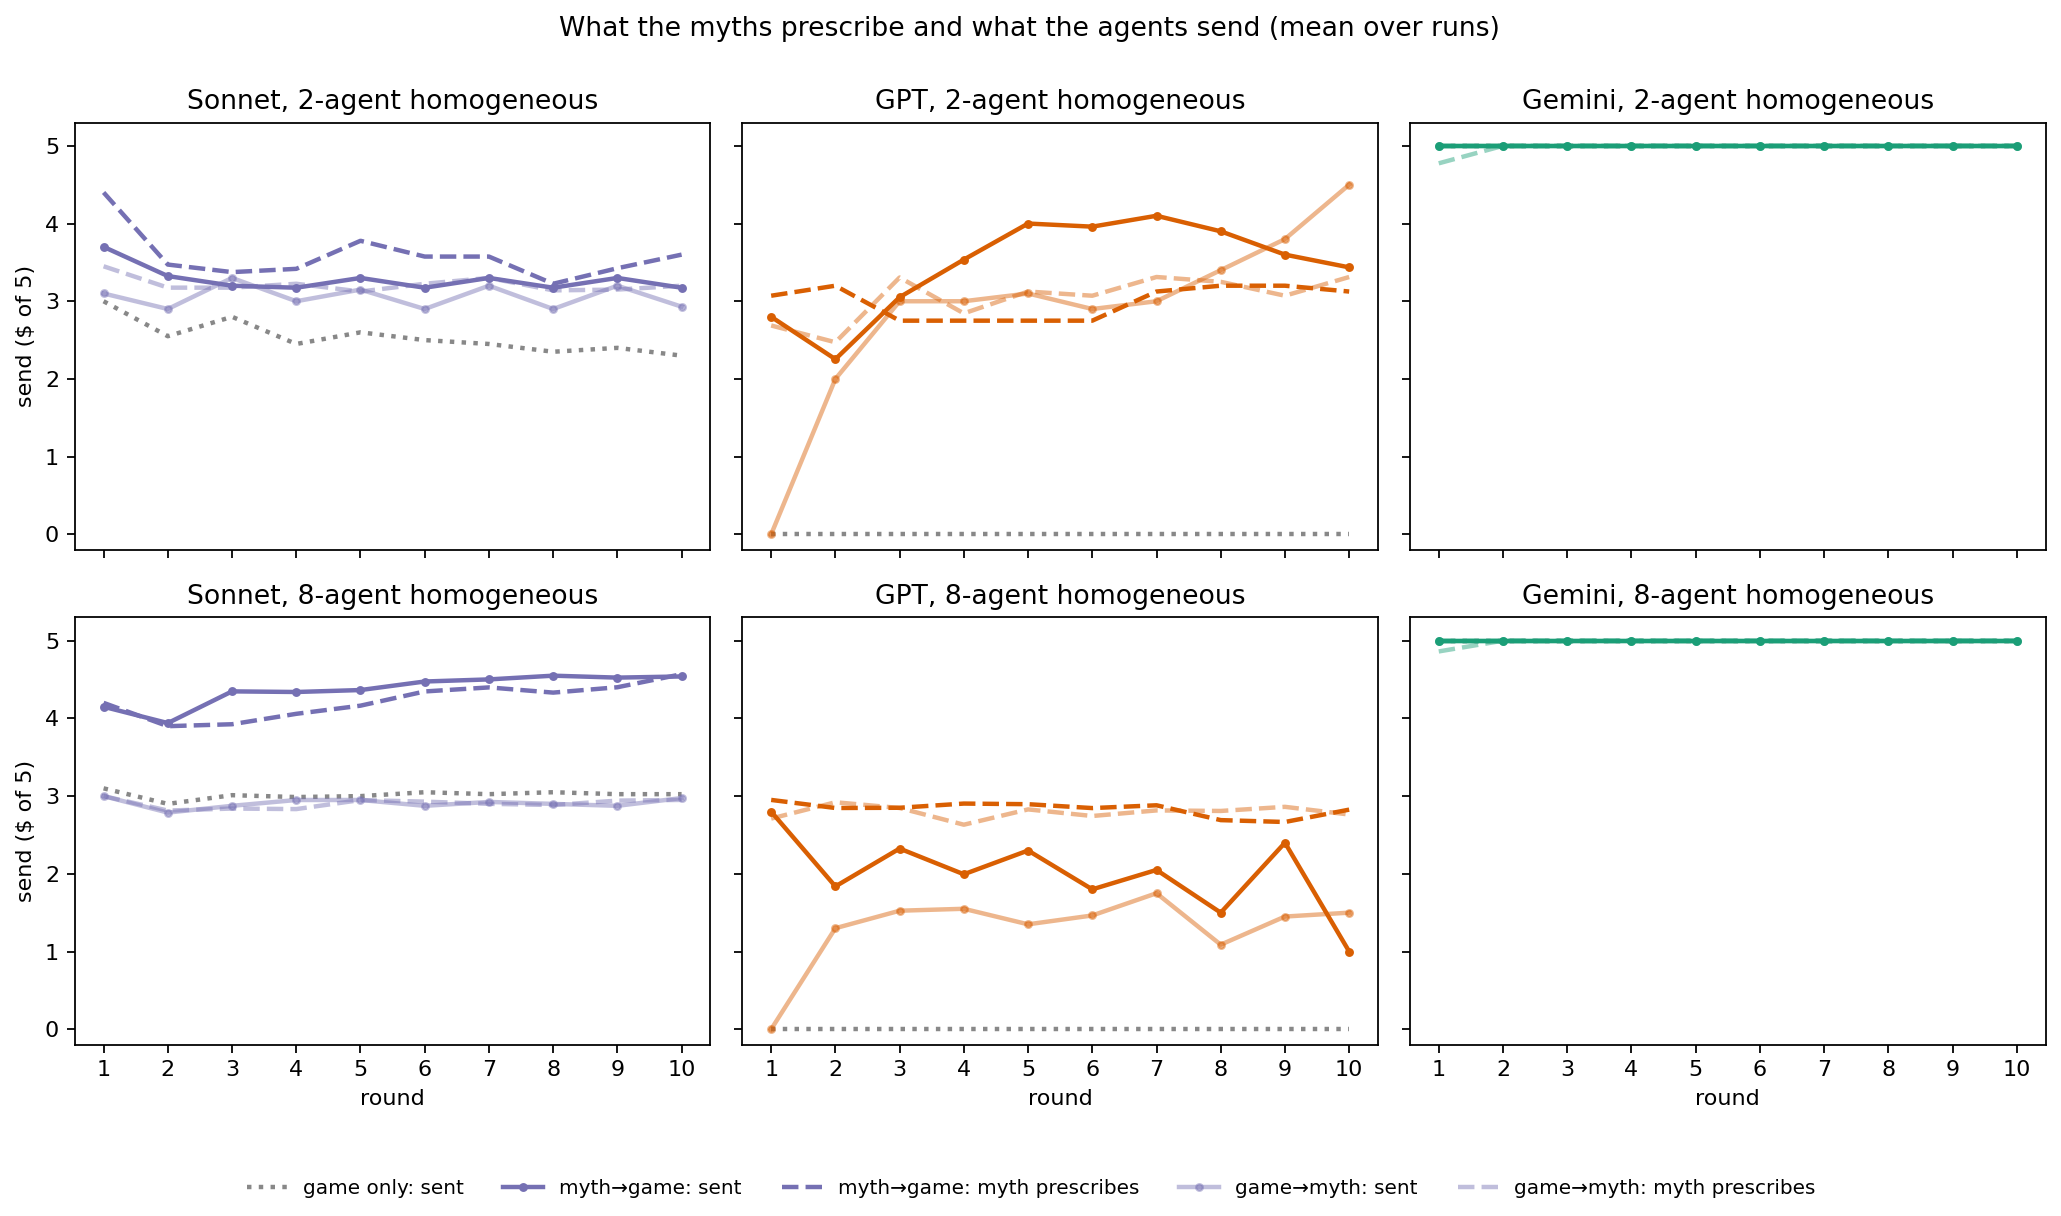
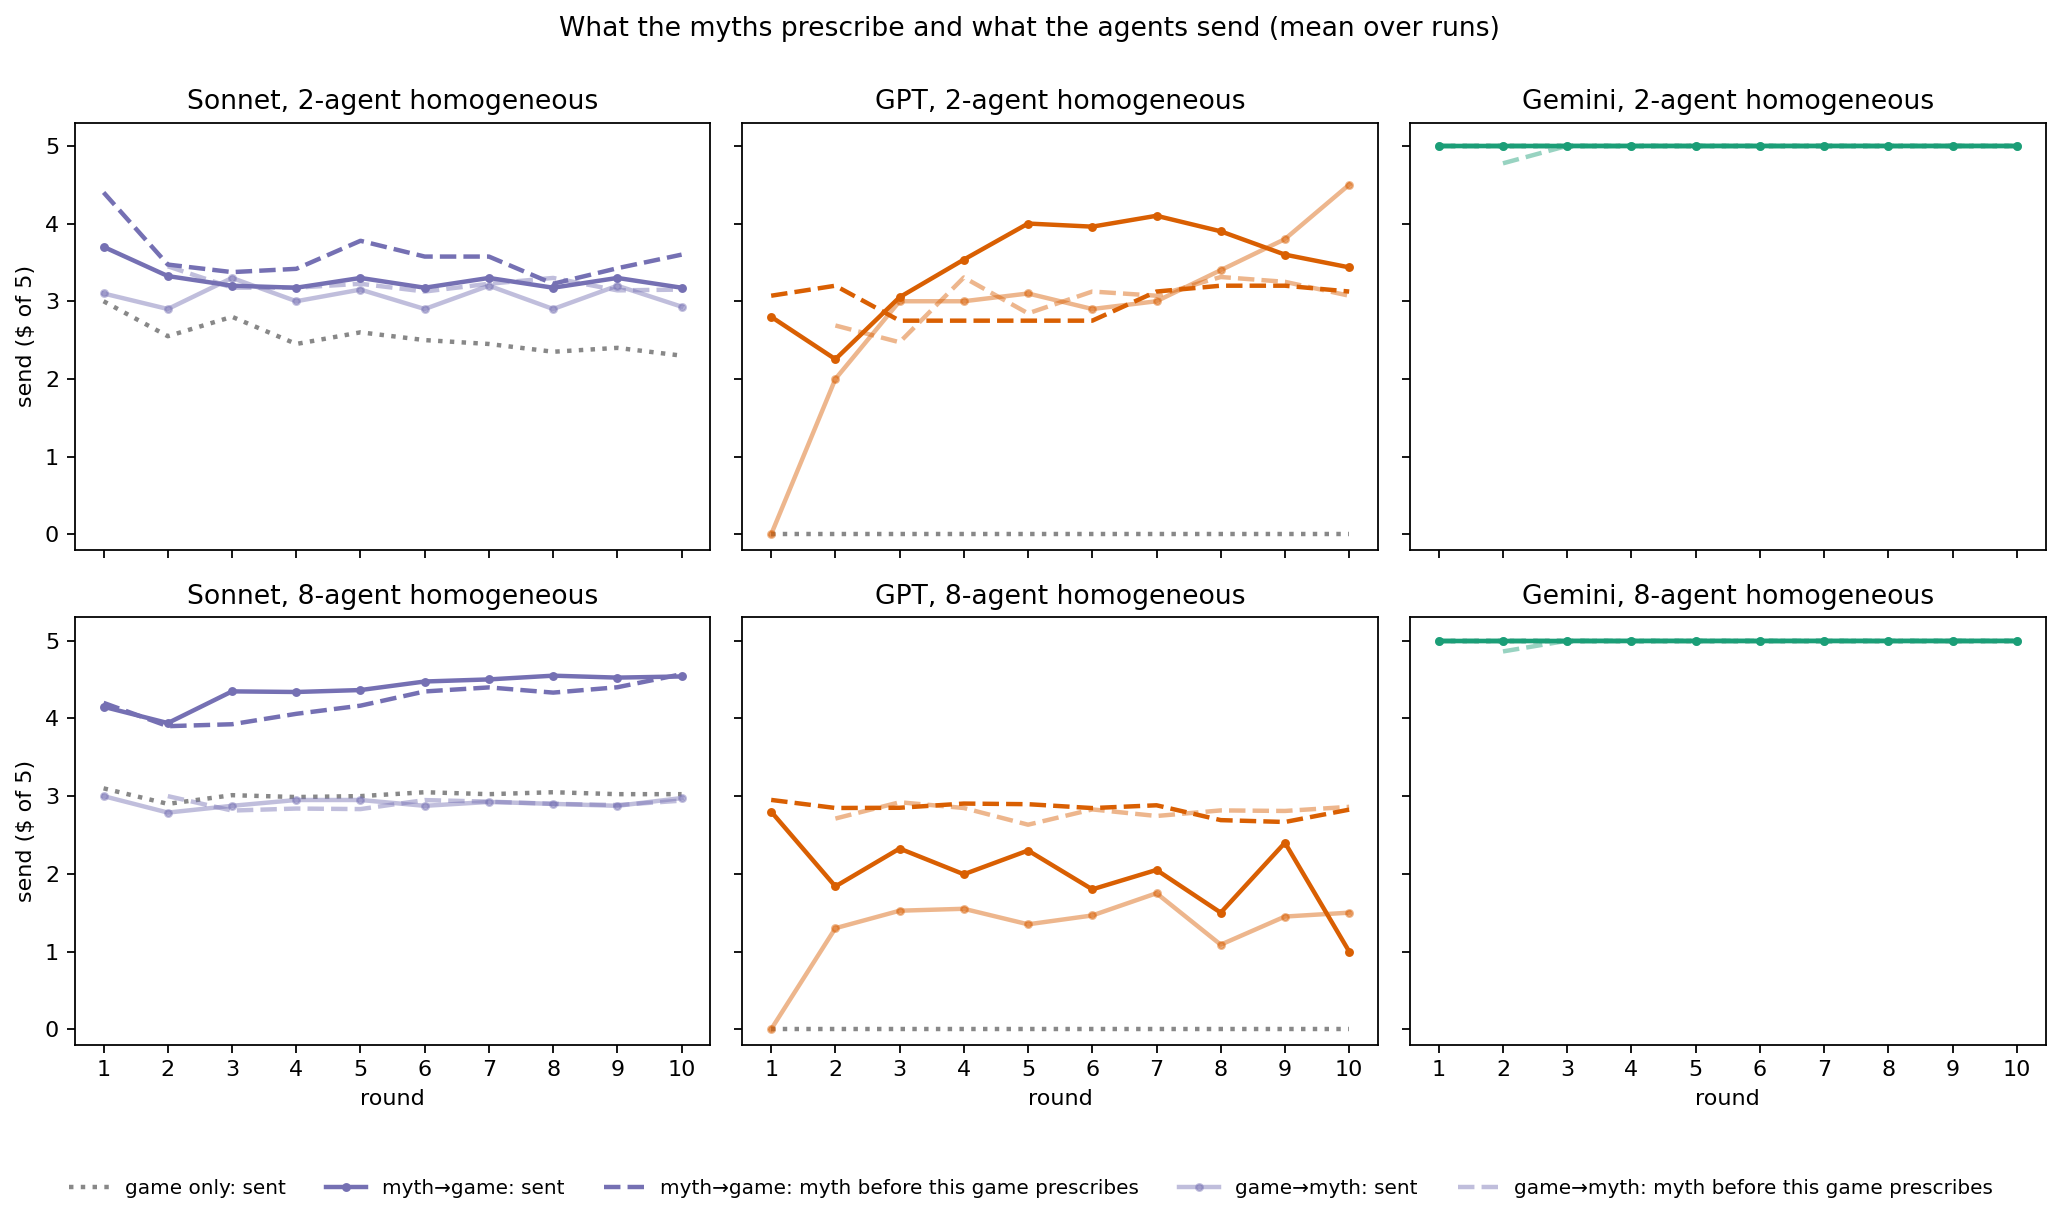
Rescope myth-rule claims after review checks
Align game->myth sends with the myth written before them, lead T1 with the
within-family coefficients, add the within-donor-type transplant check and the
letdown-rule null, and mark the letdown-field trends tentative (kappa 0.29-0.42).

diff --git a/analyses/myth_rules_analysis.py b/analyses/myth_rules_analysis.py
@@ -130,7 +130,10 @@ def prescribed_vs_actual(r: pd.DataFrame, sends: pd.DataFrame) -> pd.DataFrame:
     per_run = h.groupby(["size", "family", "task_order", "path", "round"])["sent"].mean().reset_index()
     actual = per_run.groupby(["size", "family", "task_order", "round"])["sent"].agg(["mean", "std"])
     actual.columns = ["sent_mean", "sent_sd"]
-    rh = r[~r["mixed"]]
+    rh = r[~r["mixed"]].copy()
+    # line each send up with the myth written before it: in game->myth that is the previous round's myth
+    rh["round"] = np.where(rh["task_order"] == "game_myth", rh["round"] + 1, rh["round"])
+    rh = rh[rh["round"] <= 10]
     presc = rh.groupby(["size", "family", "task_order", "round"]).agg(
         prescribed_mean=("prescribed", "mean"), prescribed_specified=("prescribed", lambda s: s.notna().mean()))
     return actual.join(presc, how="left").reset_index().round(3)
@@ -152,7 +155,7 @@ def plot_prescribed_vs_actual(t: pd.DataFrame) -> None:
                 ax.plot(o["round"], o["sent_mean"], color=c, alpha=alpha, lw=2, marker="o", ms=3,
                         label=f"{name}: sent")
                 ax.plot(o["round"], o["prescribed_mean"], color=c, alpha=alpha, lw=2, ls="--",
-                        label=f"{name}: myth prescribes")
+                        label=f"{name}: myth before this game prescribes")
             ax.set_ylim(-0.2, 5.3)
             ax.set_title(f"{fam}, {size}-agent homogeneous")
             if j == 0:

diff --git a/analyses/linguistic_provenance.py b/analyses/linguistic_provenance.py
@@ -73,7 +73,8 @@ def main() -> None:
         allowed.update({k: why for k in ("protocol.simulation.seed_myth", "protocol.simulation.seed_reinject",
                                          "protocol.simulation.seed_user_prompt", "replicate.identity")})
         apparatus = ("Transplant pool uses the historical slide-678 apparatus (uninformed U(-5,0) noise, "
-                     "myth-only memory); it is never pooled with September runs, only compared within itself")
+                     "myth-only memory); it is never pooled with September runs, only compared within itself. "
+                     "Declared for the folder as a whole; the September pools do not differ in these fields")
         allowed.update({k: apparatus for k in ("protocol.game.defector_prompt_template",
                                                "protocol.game.noise_config.inform_agents",
                                                "protocol.game.noise_config.range",

diff --git a/docs/figures/myth_rules_20260928/README.md b/docs/figures/myth_rules_20260928/README.md
@@ -6,11 +6,21 @@ myths are does not predict how they play
 a myth raises cooperation? This folder extracts the concrete play rules each
 myth endorses and checks whether agents follow them.
 
-**Answer.** Each myth works as a written instruction to its author. The
-prescribed send amount is what matters. An agent sends close to what its own
-myth prescribes, and a transplanted myth moves its hosts toward the amount it
-prescribes. Each model family writes its own rulebook, and the rulebooks barely
-change over ten rounds.
+**Answer.** A myth works as a written instruction to its author, and it acts
+mainly on how generously play opens.
+
+- **The stated send amount sets the opening.** Before any play, agents send
+  more when their own myth names a bigger amount.
+- **The transplant confirms the direction.** A myth the experimenter injected
+  moves Sonnet hosts toward the amount it names, including within one donor
+  type in the 8-agent rerun.
+- **For GPT, what matters is writing a cooperative rule at all.** Its
+  game-only zero-lock breaks whatever amount its myth names.
+- **No rule we extracted explains why myth runs stop sliding to $0.** Neither
+  the letdown clause nor the send amount accounts for it.
+- **The rulebooks differ by family.** Send amounts stay fixed within each
+  family over ten rounds. Return rules converge on "half", and a
+  "consistency" theme grows.
 
 ## Why the myth can act as an instruction
 
@@ -70,14 +80,16 @@ Homogeneous runs, round 1 → round 10, both myth orders
   - Send "all": 86–100% of myths at round 1, 100% by round 10.
   - Return "half": rises to 96–100%. Early myths still said "more than half"
     (24–36%).
-  - "Keep trusting after a shortfall": 22–64% at round 1, 92–100% by round 10.
-    Gemini's myths increasingly tell the reader to trust through the noise.
+  - "Keep trusting after a shortfall": 22–64% at round 1, 92–100% by round 10
+    under GLM. *Tentative:* the second judge codes far fewer Gemini myths this
+    way (36% vs 76% on the same sample).
 - **GPT: send a measured amount, return about half.**
   - Send "moderate": 62–64% at round 1, 76–88% at round 10. "Not a flood",
     "within one's means".
   - Send "all": falls from 8–14% to 6%.
-  - "After being let down": GPT is the only family whose myths shift toward
-    "reduce" (6% → 34% in game→myth).
+  - "After being let down": under GLM, GPT is the only family whose myths
+    shift toward "reduce" (6% → 34% in game→myth). *Tentative:* the letdown
+    field has κ 0.29–0.42 per family.
 - **Sonnet: depends on when the myth is written.**
   - Myth written before play (myth→game): 60% "send all" at round 1. Its
     return rule leans generous: 58% "more than half".
@@ -99,20 +111,24 @@ Homogeneous runs, round 1 → round 10, both myth orders
   a few points of homogeneous runs for Sonnet and Gemini. GPT in mixed runs
   says "send all" more often (22% vs 6%).
 
-## 2. Agents send what their myths prescribe (`prescribed_vs_actual_send.png`)
+## 2. Prescriptions and sends move together (`prescribed_vs_actual_send.png`)
 
-Mean over runs, homogeneous, $ out of 5:
+Each send is lined up with the myth written before it. In game→myth that is
+the previous round's myth, so game→myth has no prescription at round 1. Only
+the myth→game round-1 column is free of past play (Section 3 tests it). Mean
+over runs, homogeneous, $ out of 5:
 
 | Setting | Game only: sent | Myth→game: prescribed | Myth→game: sent | Game→myth: prescribed | Game→myth: sent |
 |---|---:|---:|---:|---:|---:|
-| 8 Sonnet, round 1 | 3.10 (±0.14) | 4.20 | 4.15 (±0.42) | 3.00 | 3.00 (±0.00) |
-| 8 Sonnet, round 10 | 3.03 (±0.06) | 4.57 | 4.54 (±0.44) | 2.95 | 2.98 (±0.06) |
-| 8 GPT, round 2 | 0.00 (±0.00) | 2.85 | 1.84 (±0.55) | 2.92 | 1.30 (±0.57) |
-| GPT dyad, round 2 | 0.00 (±0.00) | 3.20 | 2.25 (±1.84) | 2.47 | 2.00 (±1.41) |
+| 8 Sonnet, round 1 | 3.10 (±0.14) | 4.20 | 4.15 (±0.42) | – | 3.00 (±0.00) |
+| 8 Sonnet, round 10 | 3.03 (±0.06) | 4.57 | 4.54 (±0.44) | 2.94 | 2.98 (±0.06) |
+| 8 GPT, round 2 | 0.00 (±0.00) | 2.85 | 1.84 (±0.55) | 2.71 | 1.30 (±0.57) |
+| GPT dyad, round 2 | 0.00 (±0.00) | 3.20 | 2.25 (±1.84) | 2.69 | 2.00 (±1.41) |
 | Gemini, all rounds | 5.00 | 5.00 | 5.00 | 5.00 | 5.00 |
 
-- **Sonnet populations send almost exactly what their myths prescribe.** This
-  holds in both orders and in every round.
+- **Sonnet populations send almost exactly what their myths prescribe,** in
+  both orders and in every round. After round 1, that partly reflects myths
+  describing settled play.
 - **GPT populations send less than their own rule.** They prescribe about
   $2.85, far above the $0 of game-only play, and send $1–2. GPT dyads send
   below the rule early on and above it by round 10.
@@ -125,17 +141,17 @@ Only three tests are free of the "myths describe the game just played" problem
 
 | Test | $ sent per $ prescribed | 95% CI | Spearman | n decisions / runs |
 |---|---:|---|---:|---:|
-| T1 myth→game round 1 (myth before any play), all families | +0.57 | 0.47 to 0.67 | 0.74 | 200 / 75 |
-| T1, Sonnet | +0.59 | 0.42 to 0.77 | 0.70 | 72 / 31 |
+| T1 myth→game round 1 (myth before any play), Sonnet | +0.59 | 0.42 to 0.77 | 0.70 | 72 / 31 |
 | T1, GPT | +0.54 | 0.41 to 0.68 | 0.50 | 78 / 37 |
+| T1, all families (family fixed effects; Gemini adds no variation) | +0.57 | 0.47 to 0.67 | 0.74 | 200 / 75 |
 | T2 game→myth round 2 (one round played, no partner myth yet), all | +0.16 | 0.02 to 0.30 | 0.53 | 204 / 77 |
 | T2, Sonnet | +0.17 | 0.04 to 0.30 | 0.30 | 74 / 30 |
 | T2, GPT | +0.04 | −0.22 to 0.30 | 0.02 | 83 / 39 |
 | T3 rounds 2–10, own myth → next send (each agent vs itself) | +0.01 | −0.09 to 0.12 | – | 2,869 / 156 |
 | T3 reverse: send → next myth's prescription | +0.07 | 0.03 to 0.10 | – | 3,395 / 155 |
 
-- **T1.** Before any play, each extra prescribed dollar goes with about 57
-  cents more sent. For example, GPT agents whose first myth says "send all"
+- **T1.** Before any play, within Sonnet and within GPT, each extra
+  prescribed dollar goes with 54–59 cents more sent. For example, GPT agents whose first myth says "send all"
   send $4.38 (±0.96, n=16). Those whose myth says "moderate" send $3.10
   (±1.20, n=50).
 - **T2.** After one round, the link is weak for Sonnet and absent for GPT.
@@ -157,6 +173,15 @@ received.
 - **The prescribed amount predicts host sending.** Spearman 0.72 in the
   8-agent rerun and 0.68 in the dyad rerun (23 donors with a stated rule in
   each). Baseline sends with no text: $2.81 (8-agent) and $2.00 (dyad).
+- **It isn't just the donor type.** Within donor types, with donor-type fixed
+  effects:
+  - 8-agent: +$0.41 host send per prescribed dollar (within-type Spearman
+    0.75, p<0.001). Without the single "send nothing" donor: +$0.29
+    (p=0.005).
+  - Dyads: +$0.34 (p=0.008). Without the "send nothing" donor: +$0.19
+    (p=0.12).
+  - So amount matters beyond donor type in populations. In dyads the
+    evidence rests largely on the one "send nothing" donor.
 - **The one donor that says "send nothing"** produced the collapse: host mean
   send $0.60 (8-agent) and $0.00 (dyad).
 - **Donors that say "all five"** lift hosts to $3.3–5.0 in the 8-agent
@@ -165,6 +190,28 @@ received.
 - **Tone adds something beyond the amount.** Late Gemini donors with no stated
   amount still lifted 8-agent hosts to $4.80, so generous language may help as
   well.
+
+## 5. What stops the slide to $0 is not in the rules we extracted
+
+Myth runs rarely repeat a $0 after being sent $0; game-only runs almost always
+do (see the task-order decomposition). If the letdown clause carried this,
+agents whose latest myth says "keep trusting" should resend more
+(`letdown_rule_vs_next_send.csv`). GPT agents after being sent $0:
+
+| Latest myth says | Sends $0 again | Next send | n (runs) |
+|---|---:|---:|---:|
+| Keep trusting | 52% | $1.67 | 69 (32) |
+| Reduce | 50% | $2.03 | 88 (32) |
+| Nothing on this | 45% | $1.99 | 227 (45) |
+
+- **No difference.** The anti-slide effect belongs to the myth condition as a
+  whole, not to any clause we coded. The letdown field is the least reliable
+  one, so this is a weak null.
+- **Candidates for what does carry it:**
+  - the standing instruction to consult the myths;
+  - the repeated restatement of the cooperative ideal;
+  - the fact that every myth names some positive amount (GPT's is about
+    $2.85).
 
 ## Caveats
 
